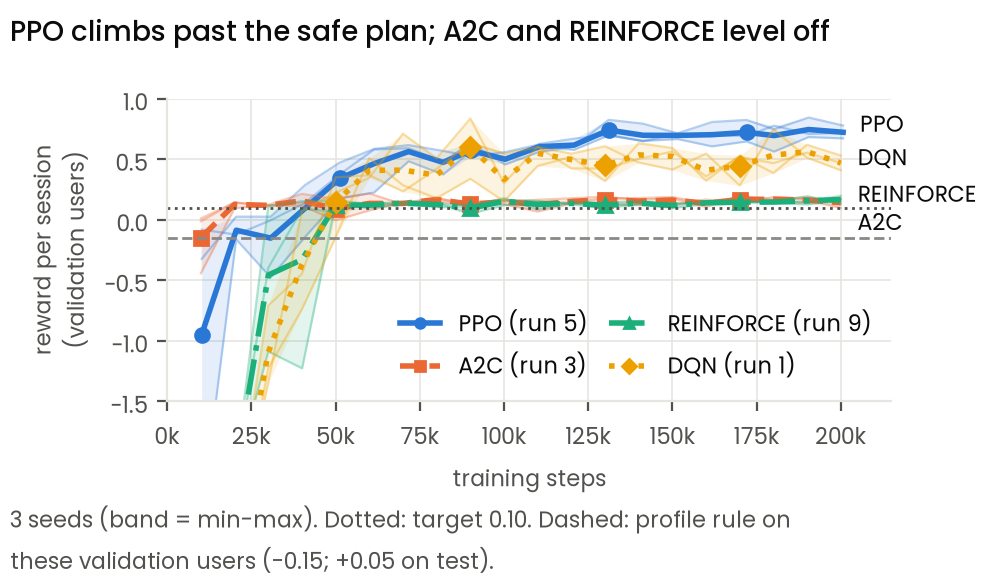
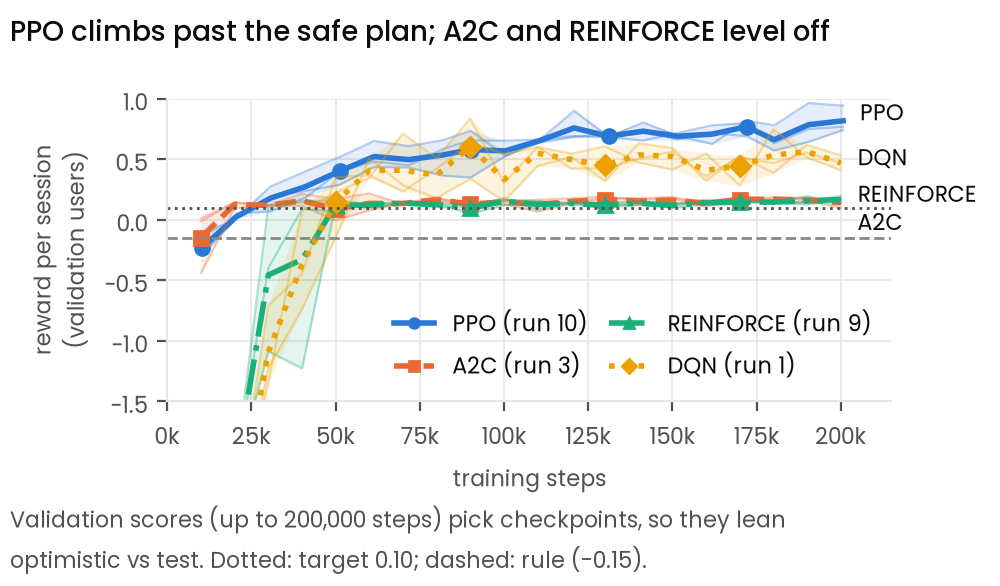
Update the plots for the new PPO model

Changed region(s): [[0.0, 0.8601, 0.806, 0.9829], [0.186, 0.1536, 0.899, 0.6758], [0.403, 0.5222, 0.589, 0.6451]]

diff --git a/analysis/plots.py b/analysis/plots.py
@@ -28,7 +28,7 @@ THOUSANDS = ticker.FuncFormatter(lambda x, _: f"{x / 1000:.0f}k")   # 50000 -> "
 
 ALGOS = ["ppo", "a2c", "reinforce", "dqn"]
 NAMES = {"ppo": "PPO", "a2c": "A2C", "reinforce": "REINFORCE", "dqn": "DQN"}
-CHOSEN_RUN = {"ppo": 5, "a2c": 3, "reinforce": 9, "dqn": 1}       # final 200,000-step settings (models/README.md)
+CHOSEN_RUN = {"ppo": 10, "a2c": 3, "reinforce": 9, "dqn": 1}      # final 200,000-step settings (models/README.md)
 SEEDS = (0, 1, 2)
 MAIN_SETTINGS = range(10)   # the original 10 settings per algorithm; PPO settings 10-11 were added after model selection
 
@@ -168,8 +168,8 @@ def fig_learning_curves(out, rule_val):
     ax.xaxis.set_major_formatter(THOUSANDS)
     ax.legend(loc="lower right", fontsize=8, ncol=2, handlelength=1.8, markerscale=0.7, columnspacing=1.0)
     return finish(fig, "PPO climbs past the safe plan; A2C and REINFORCE level off",
-                  "3 seeds (band = min-max). Dotted: target 0.10. Dashed: profile rule on these validation "
-                  f"users ({rule_val:+.2f}; +0.05 on test).",
+                  "Validation scores (up to 200,000 steps) pick checkpoints, so they lean optimistic vs test. "
+                  f"Dotted: target 0.10; dashed: rule ({rule_val:+.2f}).",
                   f"{out}/learning_curves.png")
 
 
@@ -254,7 +254,7 @@ def fig_convergence(out):
     axes[0].set_yticks([0, 50_000, 100_000, never_y], ["0", "50k", "100k", "never"])
     axes[0].set_ylim(-20_000, never_y + 8_000)
     return finish(fig, "Most runs reach the safe plan; only PPO and DQN go beyond",
-                  "100,000-step sweep, 30 runs each; x = never; ringed = final setting.",
+                  "100,000-step sweep, 30 runs each; x = never; ringed = final setting (PPO's, run 10, was added later).",
                   f"{out}/convergence.png")
 
 
@@ -282,7 +282,7 @@ def fig_hyperparameters(out):
         ax.set_xlabel("reward per session (test)")
     axes[0, 0].text(rule_test, 9.6, " rule", fontsize=8, color=INK_2)
     return finish(fig, "Settings matter for PPO and DQN; A2C and REINFORCE stay near +0.16",
-                  "300 test users; bar = mean of 3 seeds, dots = seeds; * = final setting; "
+                  "300 test users; bar = mean of 3 seeds, dots = seeds; * = final setting (PPO's, run 10, was added later); "
                   f"dashed = profile rule ({rule_test:+.2f}).",
                   f"{out}/hyperparameter_effect.png")
 
